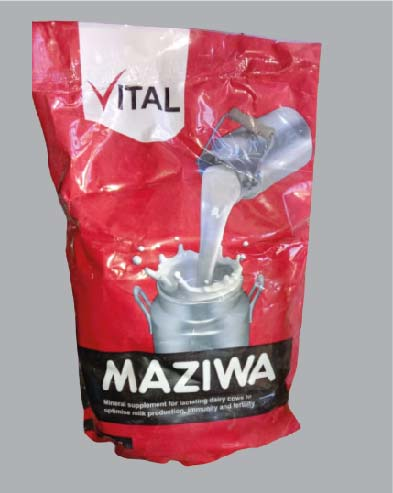
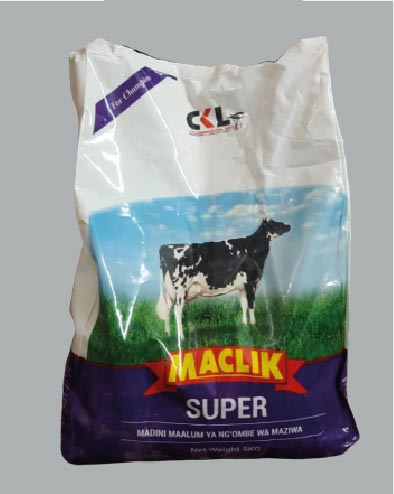
update

diff --git a/product.html b/product.html
@@ -142,9 +142,9 @@
                         </div>
                         <!-- Property Content -->
                         <div class="property-content">
-                            <h5>Vital Maziwa</h5>
+                            <h5>Maclik</h5>
                             <p class="location"><img src="img/icons/location.png" alt="">Dairy Cows</p>
-                            <p>Vital maziwa is a mineral salt for dairy cows</p>
+                            <p>Maclik Super is a mineral salt for dairy cows</p>
                             
                         </div>
                     </div>
@@ -392,8 +392,7 @@
     </section>
     <!-- ##### Featured Properties Area End ##### -->
 
-
-          <!-- ##### Footer Area Start ##### -->
+    <!-- ##### Footer Area Start ##### -->
     <footer class="footer-area section-padding-100-0 bg-img gradient-background-overlay" style="background-image: url(img/bg-img/cta.jpg);">
         <!-- Main Footer Area -->
         <div class="main-footer-area">
@@ -430,8 +429,8 @@
                             </div>
                             <!-- Address --> 
                             <div class="address">
-                                <h6><img src="img/icons/phone-call.png" alt=""> +254 722 566 917</h6>
-                                <h6><img src="img/icons/envelope.png" alt="">info@ukulimaagrovet.co.ke</h6>
+                                <h6><img src="img/icons/phone-call.png" alt=""> +254 701 173 025 <br>+254 795 210 230</h6>
+                                <h6><img src="img/icons/envelope.png" alt="">accounts@ukulimaagrovet.co.ke <br>sales@ukulimaagrovet.co.ke</h6>
                                 <h6><img src="img/icons/location.png" alt="">Ukulima House, Behind Family 
                                                                             Bank LTD, Next Top View Motel, 
                                                                             Kerugoya Town.</h6>

diff --git a/index.html b/index.html
@@ -172,9 +172,9 @@
                         </div>
                         <!-- Property Content -->
                         <div class="property-content">
-                            <h5>Vital Maziwa</h5>
+                            <h5>Maclik</h5>
                             <p class="location"><img src="img/icons/location.png" alt="">Dairy Cows</p>
-                            <p>Vital maziwa is a mineral salt for dairy cows</p>
+                            <p>Maclik Super is a mineral salt for dairy cows</p>
                             
                         </div>
                     </div>
@@ -477,8 +477,8 @@
                             </div>
                             <!-- Address --> 
                             <div class="address">
-                                <h6><img src="img/icons/phone-call.png" alt=""> +254 722 566 917</h6>
-                                <h6><img src="img/icons/envelope.png" alt="">info@ukulimaagrovet.co.ke</h6>
+                                <h6><img src="img/icons/phone-call.png" alt=""> +254 701 173 025 <br>+254 795 210 230</h6>
+                                <h6><img src="img/icons/envelope.png" alt="">accounts@ukulimaagrovet.co.ke <br>sales@ukulimaagrovet.co.ke</h6>
                                 <h6><img src="img/icons/location.png" alt="">Ukulima House, Behind Family 
                                                                             Bank LTD, Next Top View Motel, 
                                                                             Kerugoya Town.</h6>

diff --git a/murithi.html b/murithi.html
@@ -139,8 +139,7 @@ Dr Cyprian Murithi Kamunde is the Managing Director at Ukulima Agrovet Services 
     </section>
     <!-- ##### Featured Properties Area End ##### -->
 
-
-          <!-- ##### Footer Area Start ##### -->
+    <!-- ##### Footer Area Start ##### -->
     <footer class="footer-area section-padding-100-0 bg-img gradient-background-overlay" style="background-image: url(img/bg-img/cta.jpg);">
         <!-- Main Footer Area -->
         <div class="main-footer-area">
@@ -177,8 +176,8 @@ Dr Cyprian Murithi Kamunde is the Managing Director at Ukulima Agrovet Services 
                             </div>
                             <!-- Address --> 
                             <div class="address">
-                                <h6><img src="img/icons/phone-call.png" alt=""> +254 722 566 917</h6>
-                                <h6><img src="img/icons/envelope.png" alt="">info@ukulimaagrovet.co.ke</h6>
+                                <h6><img src="img/icons/phone-call.png" alt=""> +254 701 173 025 <br>+254 795 210 230</h6>
+                                <h6><img src="img/icons/envelope.png" alt="">accounts@ukulimaagrovet.co.ke <br>sales@ukulimaagrovet.co.ke</h6>
                                 <h6><img src="img/icons/location.png" alt="">Ukulima House, Behind Family 
                                                                             Bank LTD, Next Top View Motel, 
                                                                             Kerugoya Town.</h6>

diff --git a/roy.html b/roy.html
@@ -139,8 +139,7 @@ Roy Njuguna is the Operations Manager at the Ukulima Agrovet Services Limited. H
     </section>
     <!-- ##### Featured Properties Area End ##### -->
 
-
-          <!-- ##### Footer Area Start ##### -->
+    <!-- ##### Footer Area Start ##### -->
     <footer class="footer-area section-padding-100-0 bg-img gradient-background-overlay" style="background-image: url(img/bg-img/cta.jpg);">
         <!-- Main Footer Area -->
         <div class="main-footer-area">
@@ -177,8 +176,8 @@ Roy Njuguna is the Operations Manager at the Ukulima Agrovet Services Limited. H
                             </div>
                             <!-- Address --> 
                             <div class="address">
-                                <h6><img src="img/icons/phone-call.png" alt=""> +254 722 566 917</h6>
-                                <h6><img src="img/icons/envelope.png" alt="">info@ukulimaagrovet.co.ke</h6>
+                                <h6><img src="img/icons/phone-call.png" alt=""> +254 701 173 025 <br>+254 795 210 230</h6>
+                                <h6><img src="img/icons/envelope.png" alt="">accounts@ukulimaagrovet.co.ke <br>sales@ukulimaagrovet.co.ke</h6>
                                 <h6><img src="img/icons/location.png" alt="">Ukulima House, Behind Family 
                                                                             Bank LTD, Next Top View Motel, 
                                                                             Kerugoya Town.</h6>

diff --git a/careers.html b/careers.html
@@ -141,7 +141,7 @@ Send us your Resume via <b style="color: green">careers@ukulimaagrovet.co.ke</b>
     <!-- ##### Featured Properties Area End ##### -->
 
 
-          <!-- ##### Footer Area Start ##### -->
+    <!-- ##### Footer Area Start ##### -->
     <footer class="footer-area section-padding-100-0 bg-img gradient-background-overlay" style="background-image: url(img/bg-img/cta.jpg);">
         <!-- Main Footer Area -->
         <div class="main-footer-area">
@@ -178,8 +178,8 @@ Send us your Resume via <b style="color: green">careers@ukulimaagrovet.co.ke</b>
                             </div>
                             <!-- Address --> 
                             <div class="address">
-                                <h6><img src="img/icons/phone-call.png" alt=""> +254 722 566 917</h6>
-                                <h6><img src="img/icons/envelope.png" alt="">info@ukulimaagrovet.co.ke</h6>
+                                <h6><img src="img/icons/phone-call.png" alt=""> +254 701 173 025 <br>+254 795 210 230</h6>
+                                <h6><img src="img/icons/envelope.png" alt="">accounts@ukulimaagrovet.co.ke <br>sales@ukulimaagrovet.co.ke</h6>
                                 <h6><img src="img/icons/location.png" alt="">Ukulima House, Behind Family 
                                                                             Bank LTD, Next Top View Motel, 
                                                                             Kerugoya Town.</h6>

diff --git a/services.html b/services.html
@@ -315,7 +315,7 @@
     </section>
     <!-- ##### Listing Content Wrapper Area End ##### -->
 
-       <!-- ##### Footer Area Start ##### -->
+    <!-- ##### Footer Area Start ##### -->
     <footer class="footer-area section-padding-100-0 bg-img gradient-background-overlay" style="background-image: url(img/bg-img/cta.jpg);">
         <!-- Main Footer Area -->
         <div class="main-footer-area">
@@ -352,8 +352,8 @@
                             </div>
                             <!-- Address --> 
                             <div class="address">
-                                <h6><img src="img/icons/phone-call.png" alt=""> +254 722 566 917</h6>
-                                <h6><img src="img/icons/envelope.png" alt="">info@ukulimaagrovet.co.ke</h6>
+                                <h6><img src="img/icons/phone-call.png" alt=""> +254 701 173 025 <br>+254 795 210 230</h6>
+                                <h6><img src="img/icons/envelope.png" alt="">accounts@ukulimaagrovet.co.ke <br>sales@ukulimaagrovet.co.ke</h6>
                                 <h6><img src="img/icons/location.png" alt="">Ukulima House, Behind Family 
                                                                             Bank LTD, Next Top View Motel, 
                                                                             Kerugoya Town.</h6>

diff --git a/about-us.html b/about-us.html
@@ -384,7 +384,7 @@
     </section>
     <!-- ##### Meet The Team Area End ##### -->
 
-       <!-- ##### Footer Area Start ##### -->
+    <!-- ##### Footer Area Start ##### -->
     <footer class="footer-area section-padding-100-0 bg-img gradient-background-overlay" style="background-image: url(img/bg-img/cta.jpg);">
         <!-- Main Footer Area -->
         <div class="main-footer-area">
@@ -421,8 +421,8 @@
                             </div>
                             <!-- Address --> 
                             <div class="address">
-                                <h6><img src="img/icons/phone-call.png" alt=""> +254 722 566 917</h6>
-                                <h6><img src="img/icons/envelope.png" alt="">info@ukulimaagrovet.co.ke</h6>
+                                <h6><img src="img/icons/phone-call.png" alt=""> +254 701 173 025 <br>+254 795 210 230</h6>
+                                <h6><img src="img/icons/envelope.png" alt="">accounts@ukulimaagrovet.co.ke <br>sales@ukulimaagrovet.co.ke</h6>
                                 <h6><img src="img/icons/location.png" alt="">Ukulima House, Behind Family 
                                                                             Bank LTD, Next Top View Motel, 
                                                                             Kerugoya Town.</h6>

diff --git a/achievements.html b/achievements.html
@@ -200,7 +200,7 @@
     <!-- ##### Featured Properties Area End ##### -->
 
 
-          <!-- ##### Footer Area Start ##### -->
+    <!-- ##### Footer Area Start ##### -->
     <footer class="footer-area section-padding-100-0 bg-img gradient-background-overlay" style="background-image: url(img/bg-img/cta.jpg);">
         <!-- Main Footer Area -->
         <div class="main-footer-area">
@@ -237,8 +237,8 @@
                             </div>
                             <!-- Address --> 
                             <div class="address">
-                                <h6><img src="img/icons/phone-call.png" alt=""> +254 722 566 917</h6>
-                                <h6><img src="img/icons/envelope.png" alt="">info@ukulimaagrovet.co.ke</h6>
+                                <h6><img src="img/icons/phone-call.png" alt=""> +254 701 173 025 <br>+254 795 210 230</h6>
+                                <h6><img src="img/icons/envelope.png" alt="">accounts@ukulimaagrovet.co.ke <br>sales@ukulimaagrovet.co.ke</h6>
                                 <h6><img src="img/icons/location.png" alt="">Ukulima House, Behind Family 
                                                                             Bank LTD, Next Top View Motel, 
                                                                             Kerugoya Town.</h6>

diff --git a/contact.html b/contact.html
@@ -180,7 +180,7 @@
     </div> -->
 
 
-       <!-- ##### Footer Area Start ##### -->
+    <!-- ##### Footer Area Start ##### -->
     <footer class="footer-area section-padding-100-0 bg-img gradient-background-overlay" style="background-image: url(img/bg-img/cta.jpg);">
         <!-- Main Footer Area -->
         <div class="main-footer-area">
@@ -217,8 +217,8 @@
                             </div>
                             <!-- Address --> 
                             <div class="address">
-                                <h6><img src="img/icons/phone-call.png" alt=""> +254 722 566 917</h6>
-                                <h6><img src="img/icons/envelope.png" alt="">info@ukulimaagrovet.co.ke</h6>
+                                <h6><img src="img/icons/phone-call.png" alt=""> +254 701 173 025 <br>+254 795 210 230</h6>
+                                <h6><img src="img/icons/envelope.png" alt="">accounts@ukulimaagrovet.co.ke <br>sales@ukulimaagrovet.co.ke</h6>
                                 <h6><img src="img/icons/location.png" alt="">Ukulima House, Behind Family 
                                                                             Bank LTD, Next Top View Motel, 
                                                                             Kerugoya Town.</h6>

diff --git a/messaging.php b/messaging.php
@@ -168,7 +168,7 @@ else {
     <!-- ##### Featured Properties Area End ##### -->
 
 
-          <!-- ##### Footer Area Start ##### -->
+    <!-- ##### Footer Area Start ##### -->
     <footer class="footer-area section-padding-100-0 bg-img gradient-background-overlay" style="background-image: url(img/bg-img/cta.jpg);">
         <!-- Main Footer Area -->
         <div class="main-footer-area">
@@ -205,8 +205,8 @@ else {
                             </div>
                             <!-- Address --> 
                             <div class="address">
-                                <h6><img src="img/icons/phone-call.png" alt=""> +254 722 566 917</h6>
-                                <h6><img src="img/icons/envelope.png" alt="">info@ukulimaagrovet.co.ke</h6>
+                                <h6><img src="img/icons/phone-call.png" alt=""> +254 701 173 025 <br>+254 795 210 230</h6>
+                                <h6><img src="img/icons/envelope.png" alt="">accounts@ukulimaagrovet.co.ke <br>sales@ukulimaagrovet.co.ke</h6>
                                 <h6><img src="img/icons/location.png" alt="">Ukulima House, Behind Family 
                                                                             Bank LTD, Next Top View Motel, 
                                                                             Kerugoya Town.</h6>
